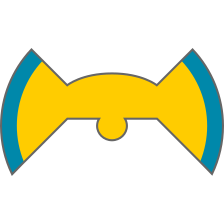
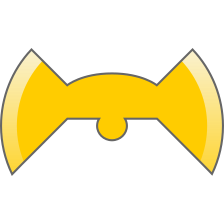
Add color in cockpit_overlay.py

Changed region(s): [[0.0, 0.2188, 0.1875, 0.7812], [0.8125, 0.2188, 1.0, 0.7812]]

diff --git a/tools/cockpit_overlay.py b/tools/cockpit_overlay.py
@@ -32,6 +32,9 @@ if __name__ == '__main__':
     img_steering = pyglet.resource.image("steering.png")
     img_steering.anchor_x = img_steering.width//2
     img_steering.anchor_y = 98
+    img_steering_color = pyglet.resource.image("steering_color.png")
+    img_steering_color.anchor_x = img_steering_color.width//2
+    img_steering_color.anchor_y = 25
     img_throttle_mask = pyglet.resource.image("throttle_mask.png")
     img_throttle_mask.anchor_x = 145/2
     img_throttle_mask.anchor_y = 145/2
@@ -42,6 +45,7 @@ if __name__ == '__main__':
     board = pyglet.sprite.Sprite(img=img_board, x=0, y=0, batch=batch2D)
     name_txt = pyglet.text.Label(car_info['name'][8:], x=window.width//2, y=80, font_size=25, color=(210, 210, 210, 255), anchor_x='center', batch=batch2D)
     steering = pyglet.sprite.Sprite(img=img_steering, x=window.width//2, y=14, batch=batch2D, group=grp1)
+    steering_color = pyglet.sprite.Sprite(img=img_steering_color, x=window.width//2, y=14, batch=batch2D, group=grp1)
     rssi_bar = pyglet.shapes.Rectangle(x=20, y=12, width=80, height=8, color=(0x00, 0x88, 0xAA), batch=batch2D)
     batt_bar = pyglet.shapes.Rectangle(x=1180, y=12, width=80, height=8, color=(0x00, 0x88, 0xAA), batch=batch2D)
     batt_txt = pyglet.text.Label('--', x=1170, y=12, font_size=20, color=(30, 30, 30, 255), anchor_x='right', batch=batch2D)
@@ -82,6 +86,7 @@ if __name__ == '__main__':
     def set_angle(v):
         a = 30*v/32768
         steering.rotation = a
+        steering_color.rotation = a
 
     def set_throttle(v):
         p = v / 32768
@@ -102,6 +107,9 @@ if __name__ == '__main__':
         trans = Mat4.from_translation(Vec3(0, 0, -10))
         diode.matrix = rot_x @ rot_y @ trans
 
+    def set_color(r, g, b):
+        steering_color.color = (r, g, b)
+
     def handle_msgs(dt):
         packet, sender = receiver.recv()
         if sender[0] == car_ip:
@@ -116,6 +124,8 @@ if __name__ == '__main__':
                     set_rssi(m['RSSI'])
                 if 'imu_a_x' in m:
                     set_imu(m)
+                if 'car_color_r' in m:
+                    set_color(m['car_color_r'], m['car_color_g'], m['car_color_b'])
 
     pyglet.clock.schedule_interval(handle_msgs, 0.005)
     pyglet.app.run()
